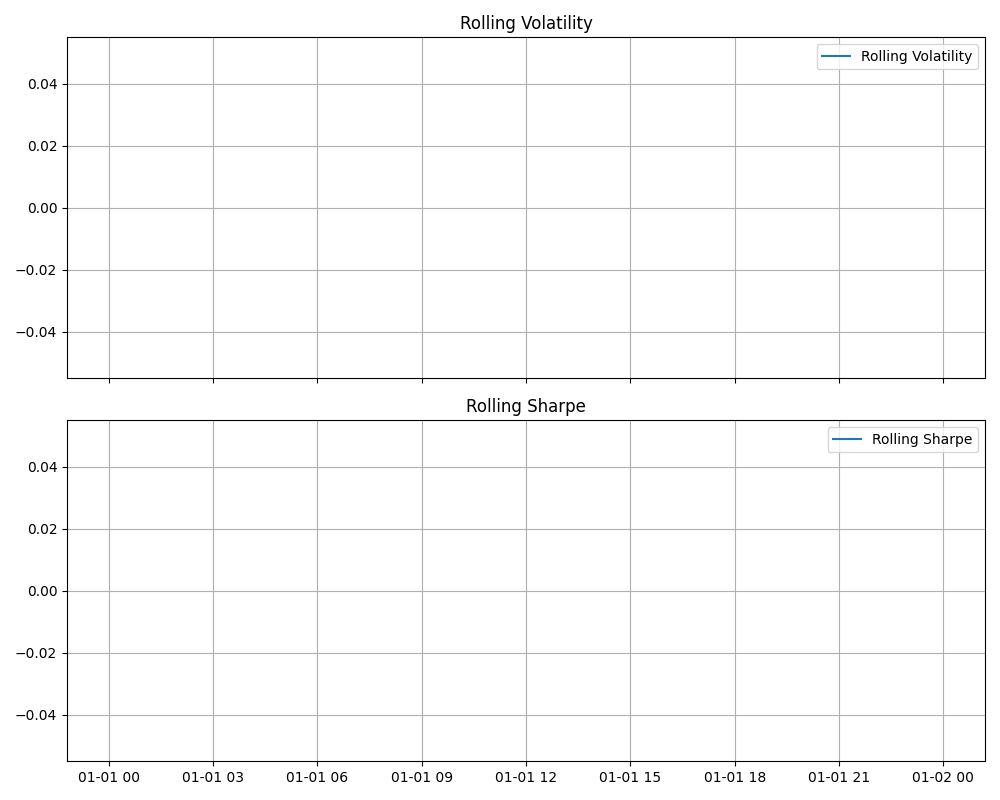
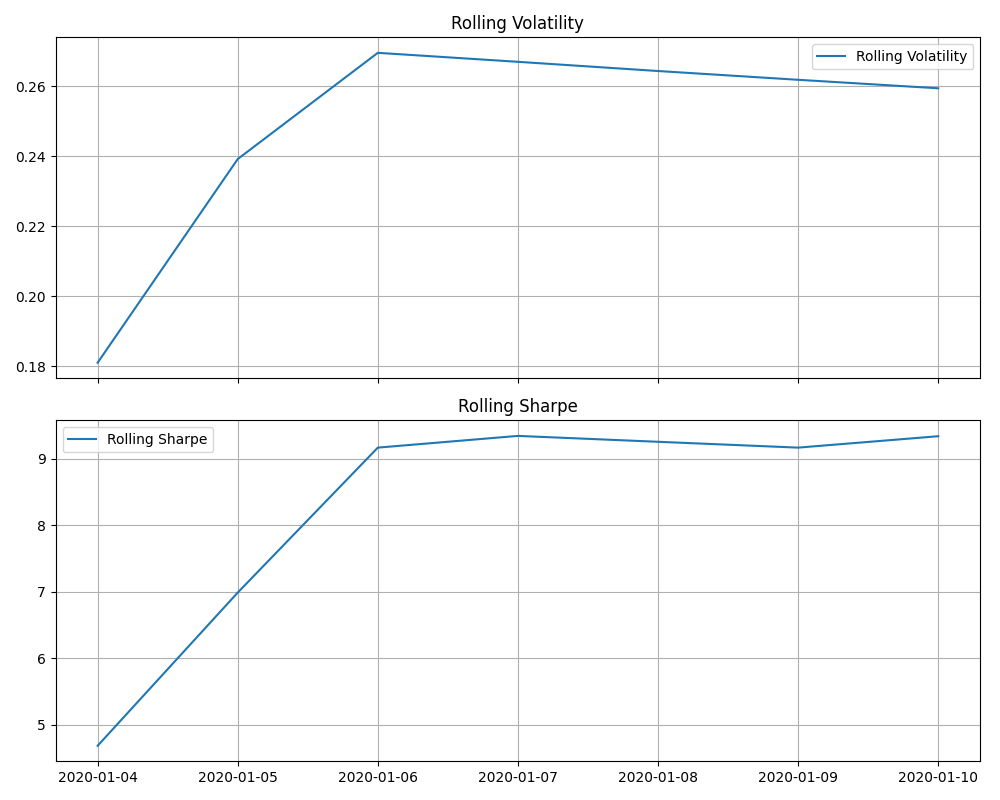
update: add rolling risk metrics

diff --git a/scripts/run_analysis.py b/scripts/run_analysis.py
@@ -22,7 +22,7 @@ if __name__ == "__main__":
     df = calculate_cumulative_returns(df)
 
     # Step 3: rolling metrics
-    window = 20
+    window = 3
     df["rolling_vol"] = rolling_volatility(df, window=window)
     df["rolling_sharpe"] = rolling_sharpe(df, window=window)
 
